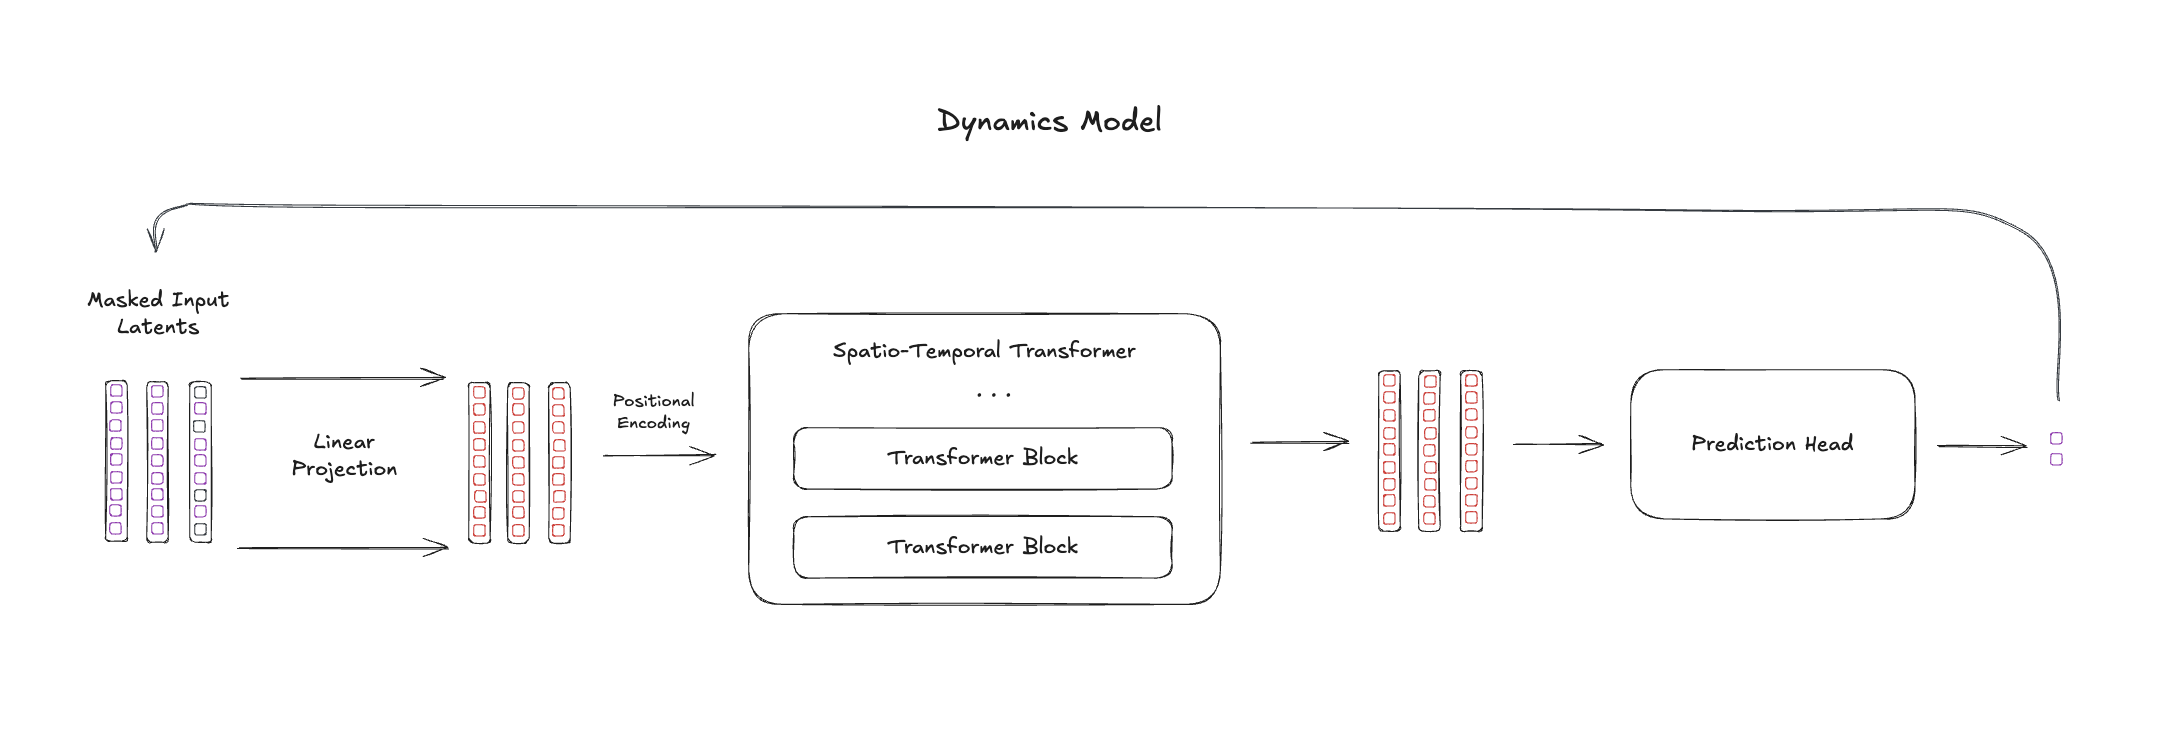
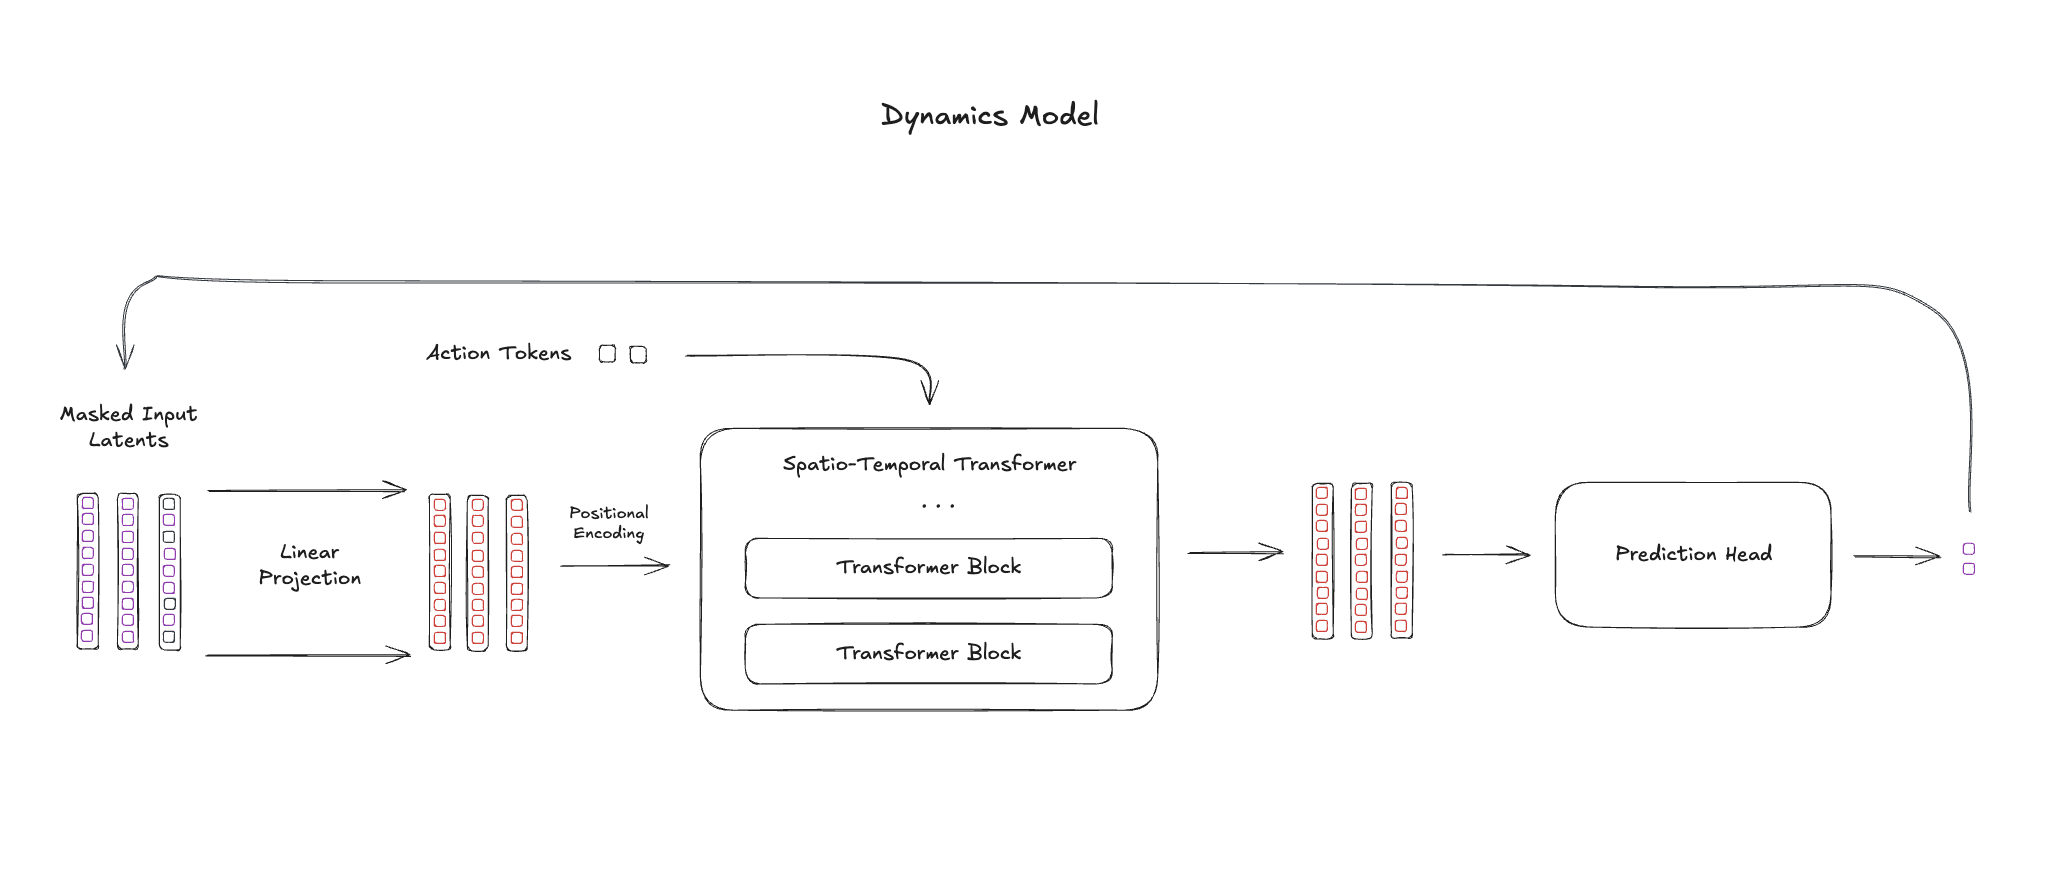
chore: correct dynamics architecture

diff --git a/readme.md b/readme.md
@@ -124,7 +124,7 @@ In order to mitigate this problem, I added a tiny classifier head which takes th
 
 ## Dynamics Model
 
-The dynamics model is responsible for taking context frame latents and generating the next frame, conditioned on actions. However, this generation is quite different from how it's done in the LAM. The Dynamics Model uses a MaskGIT backbone. this architecture excels at a task called infilling, where it learns to generate image tokens based on the surrounding context. Given that it's a transformer, we can also insert AdaLN to condition generation. MaskGIT works by iteratively predicting all patch tokens at once, taking the most confident ones, inserting them into the input and unmasking, and repeating until all patch tokens are generated. Note that our MaskGIT architecture still employes a spatio-temporal transformer under the hood. I would highly recommend reading the [MaskGIT paper](https://arxiv.org/abs/2202.04200).
+The dynamics model is responsible for taking context frame latents and generating the next frame, conditioned on actions. However, this generation is quite different from how it's done in the LAM. The Dynamics Model uses a MaskGIT backbone. This architecture excels at a task called infilling, where it learns to generate image tokens based on the surrounding context. MaskGIT works by iteratively predicting all patch tokens at once, taking the most confident ones, inserting them into the input and unmasking, and repeating until all patch tokens are generated. Given that it's a transformer, we can also insert AdaLN to condition generation. Note that our MaskGIT architecture still employes a spatio-temporal transformer under the hood. I would highly recommend reading the [MaskGIT paper](https://arxiv.org/abs/2202.04200).
 
 <p align="center"><img src="assets/dynamics-model.png" width="800"></p>
 
